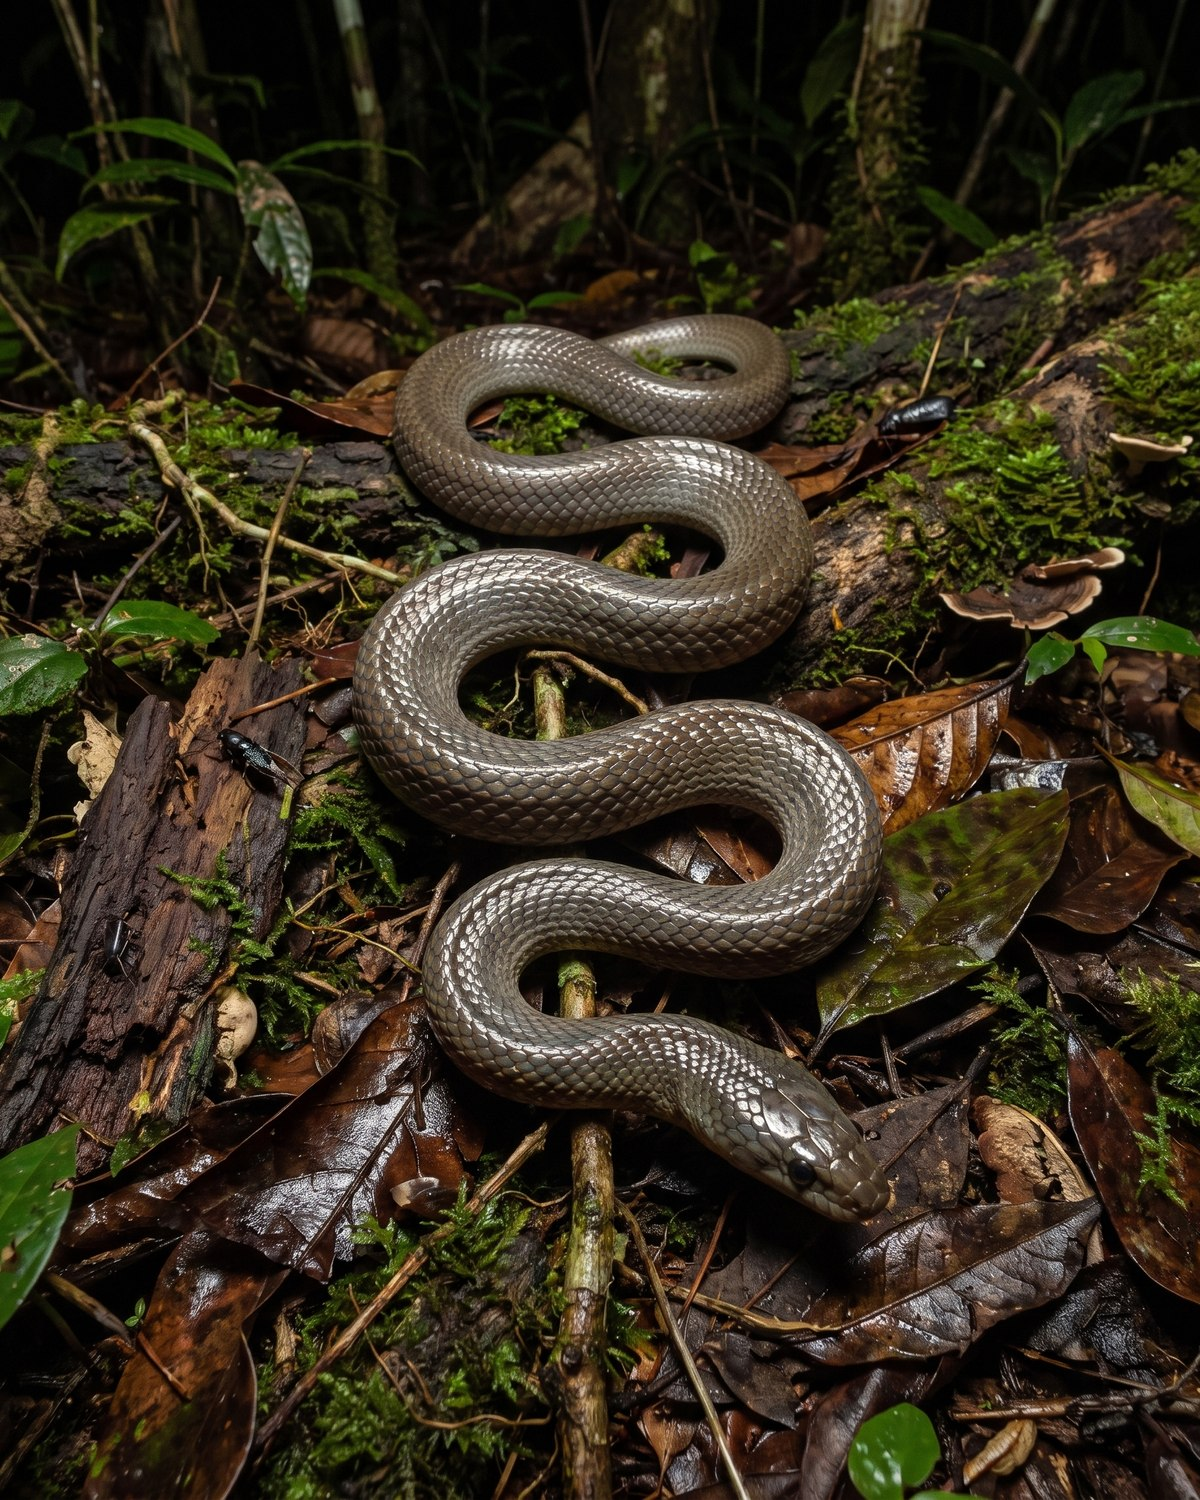
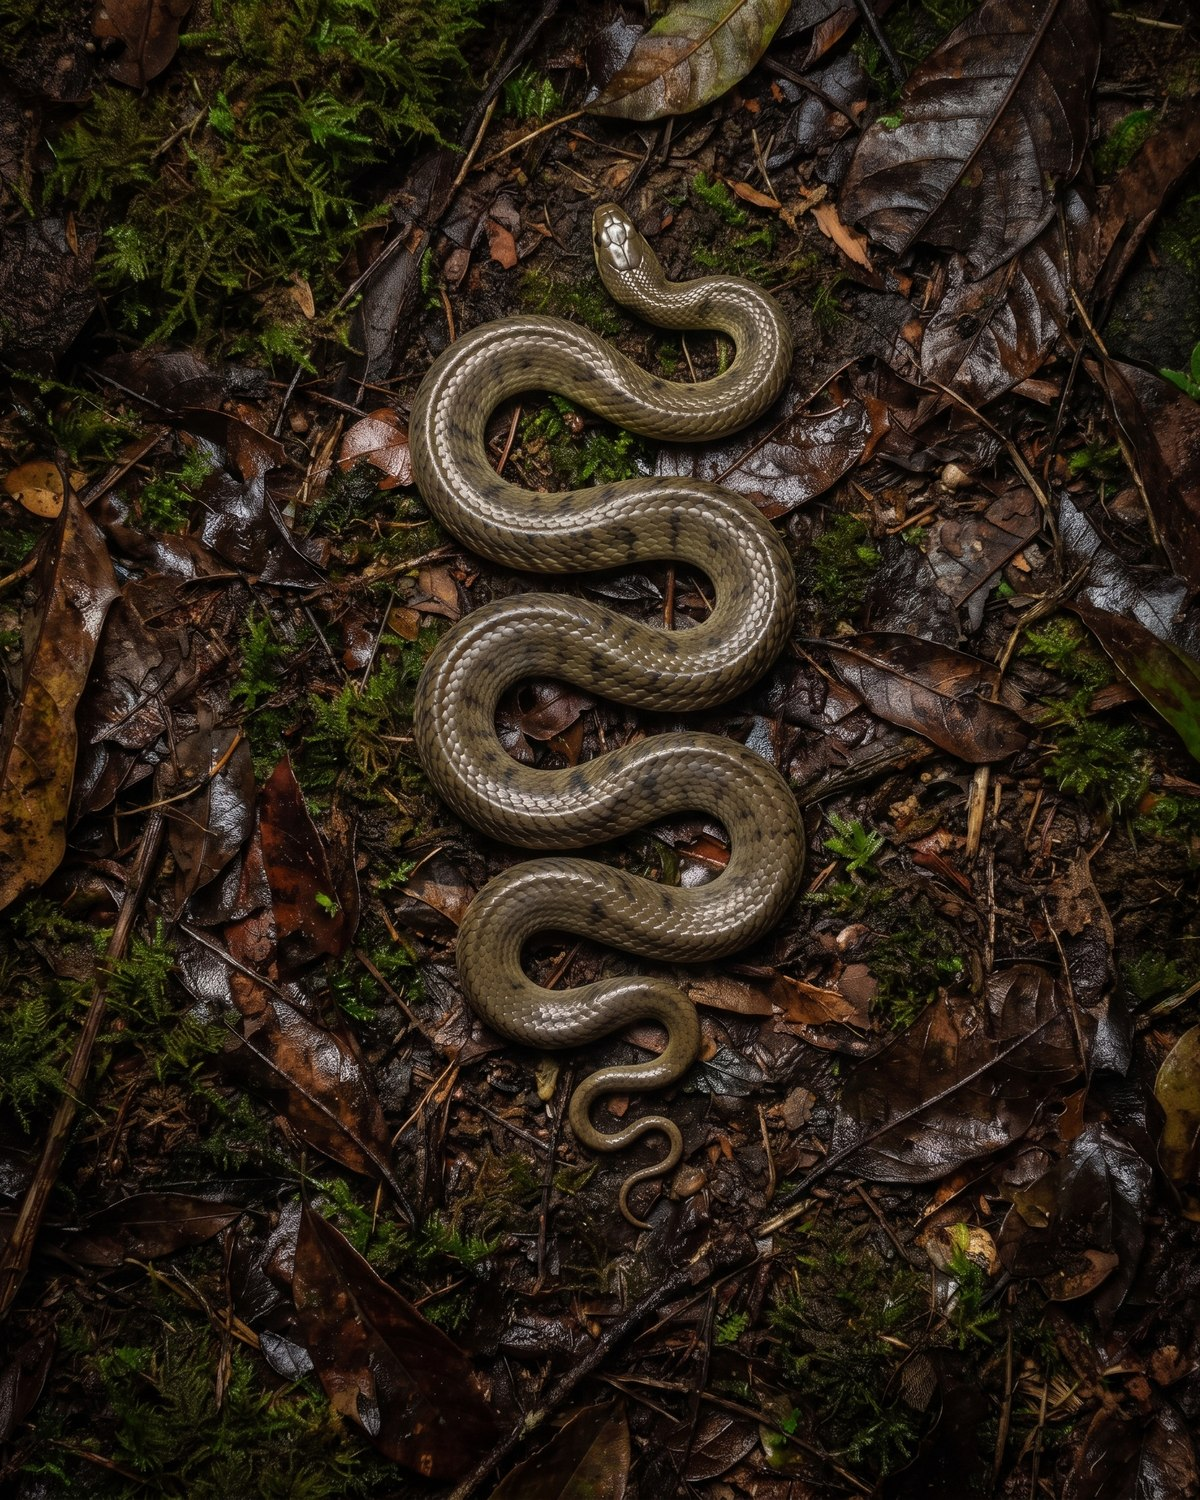
Змеи: чертежи скелетов и совпадающая поза реконструкции
R-0270 показал две недоделки серии рам: у змей не было анатомического
чертежа (слайдер шёл в два слоя), а реконструкция не совпадала с
экспонатом — живая змея ползла по ветке головой вниз, тогда как в раме
череп наверху и волна спускается вниз.

Все три змеи получили: чертёж скелета в манере энциклопедической
гравюры и пересъятую реконструкцию — голова сверху, те же изгибы в тех
же направлениях, вид сверху, как в раме, на лесной подстилке вместо
ветки. Слайдер стал трёхслойным: экспонат — скелет — при жизни.

Чертёж высокой змеи с референса не пошёл (модель возвращала фотографию
рамы) — сработал текстовый промпт с описанием композиции, как раньше
с кейхозавром и парой лилий.

diff --git a/16_product_promos/promo-data.js b/16_product_promos/promo-data.js
@@ -975,8 +975,8 @@ window.RELICTUM_PROMO = {
   "R–0266": {
     life: {
       img: "life_snake_portrait.jpg",
+      diagram: "anat_snake_portrait.jpg",
       label: "При жизни",
-      stateLabel: "При жизни",
       title: "Волна, у которой четыреста позвонков",
       text: ""
     },
@@ -1028,8 +1028,8 @@ window.RELICTUM_PROMO = {
   "R–0268": {
     life: {
       img: "life_snake_large.jpg",
+      diagram: "anat_snake_large.jpg",
       label: "При жизни",
-      stateLabel: "При жизни",
       title: "Волна, у которой четыреста позвонков",
       text: ""
     },
@@ -1081,8 +1081,8 @@ window.RELICTUM_PROMO = {
   "R–0270": {
     life: {
       img: "life_snake_tall.jpg",
+      diagram: "anat_snake_tall.jpg",
       label: "При жизни",
-      stateLabel: "При жизни",
       title: "Волна, у которой четыреста позвонков",
       text: ""
     },
